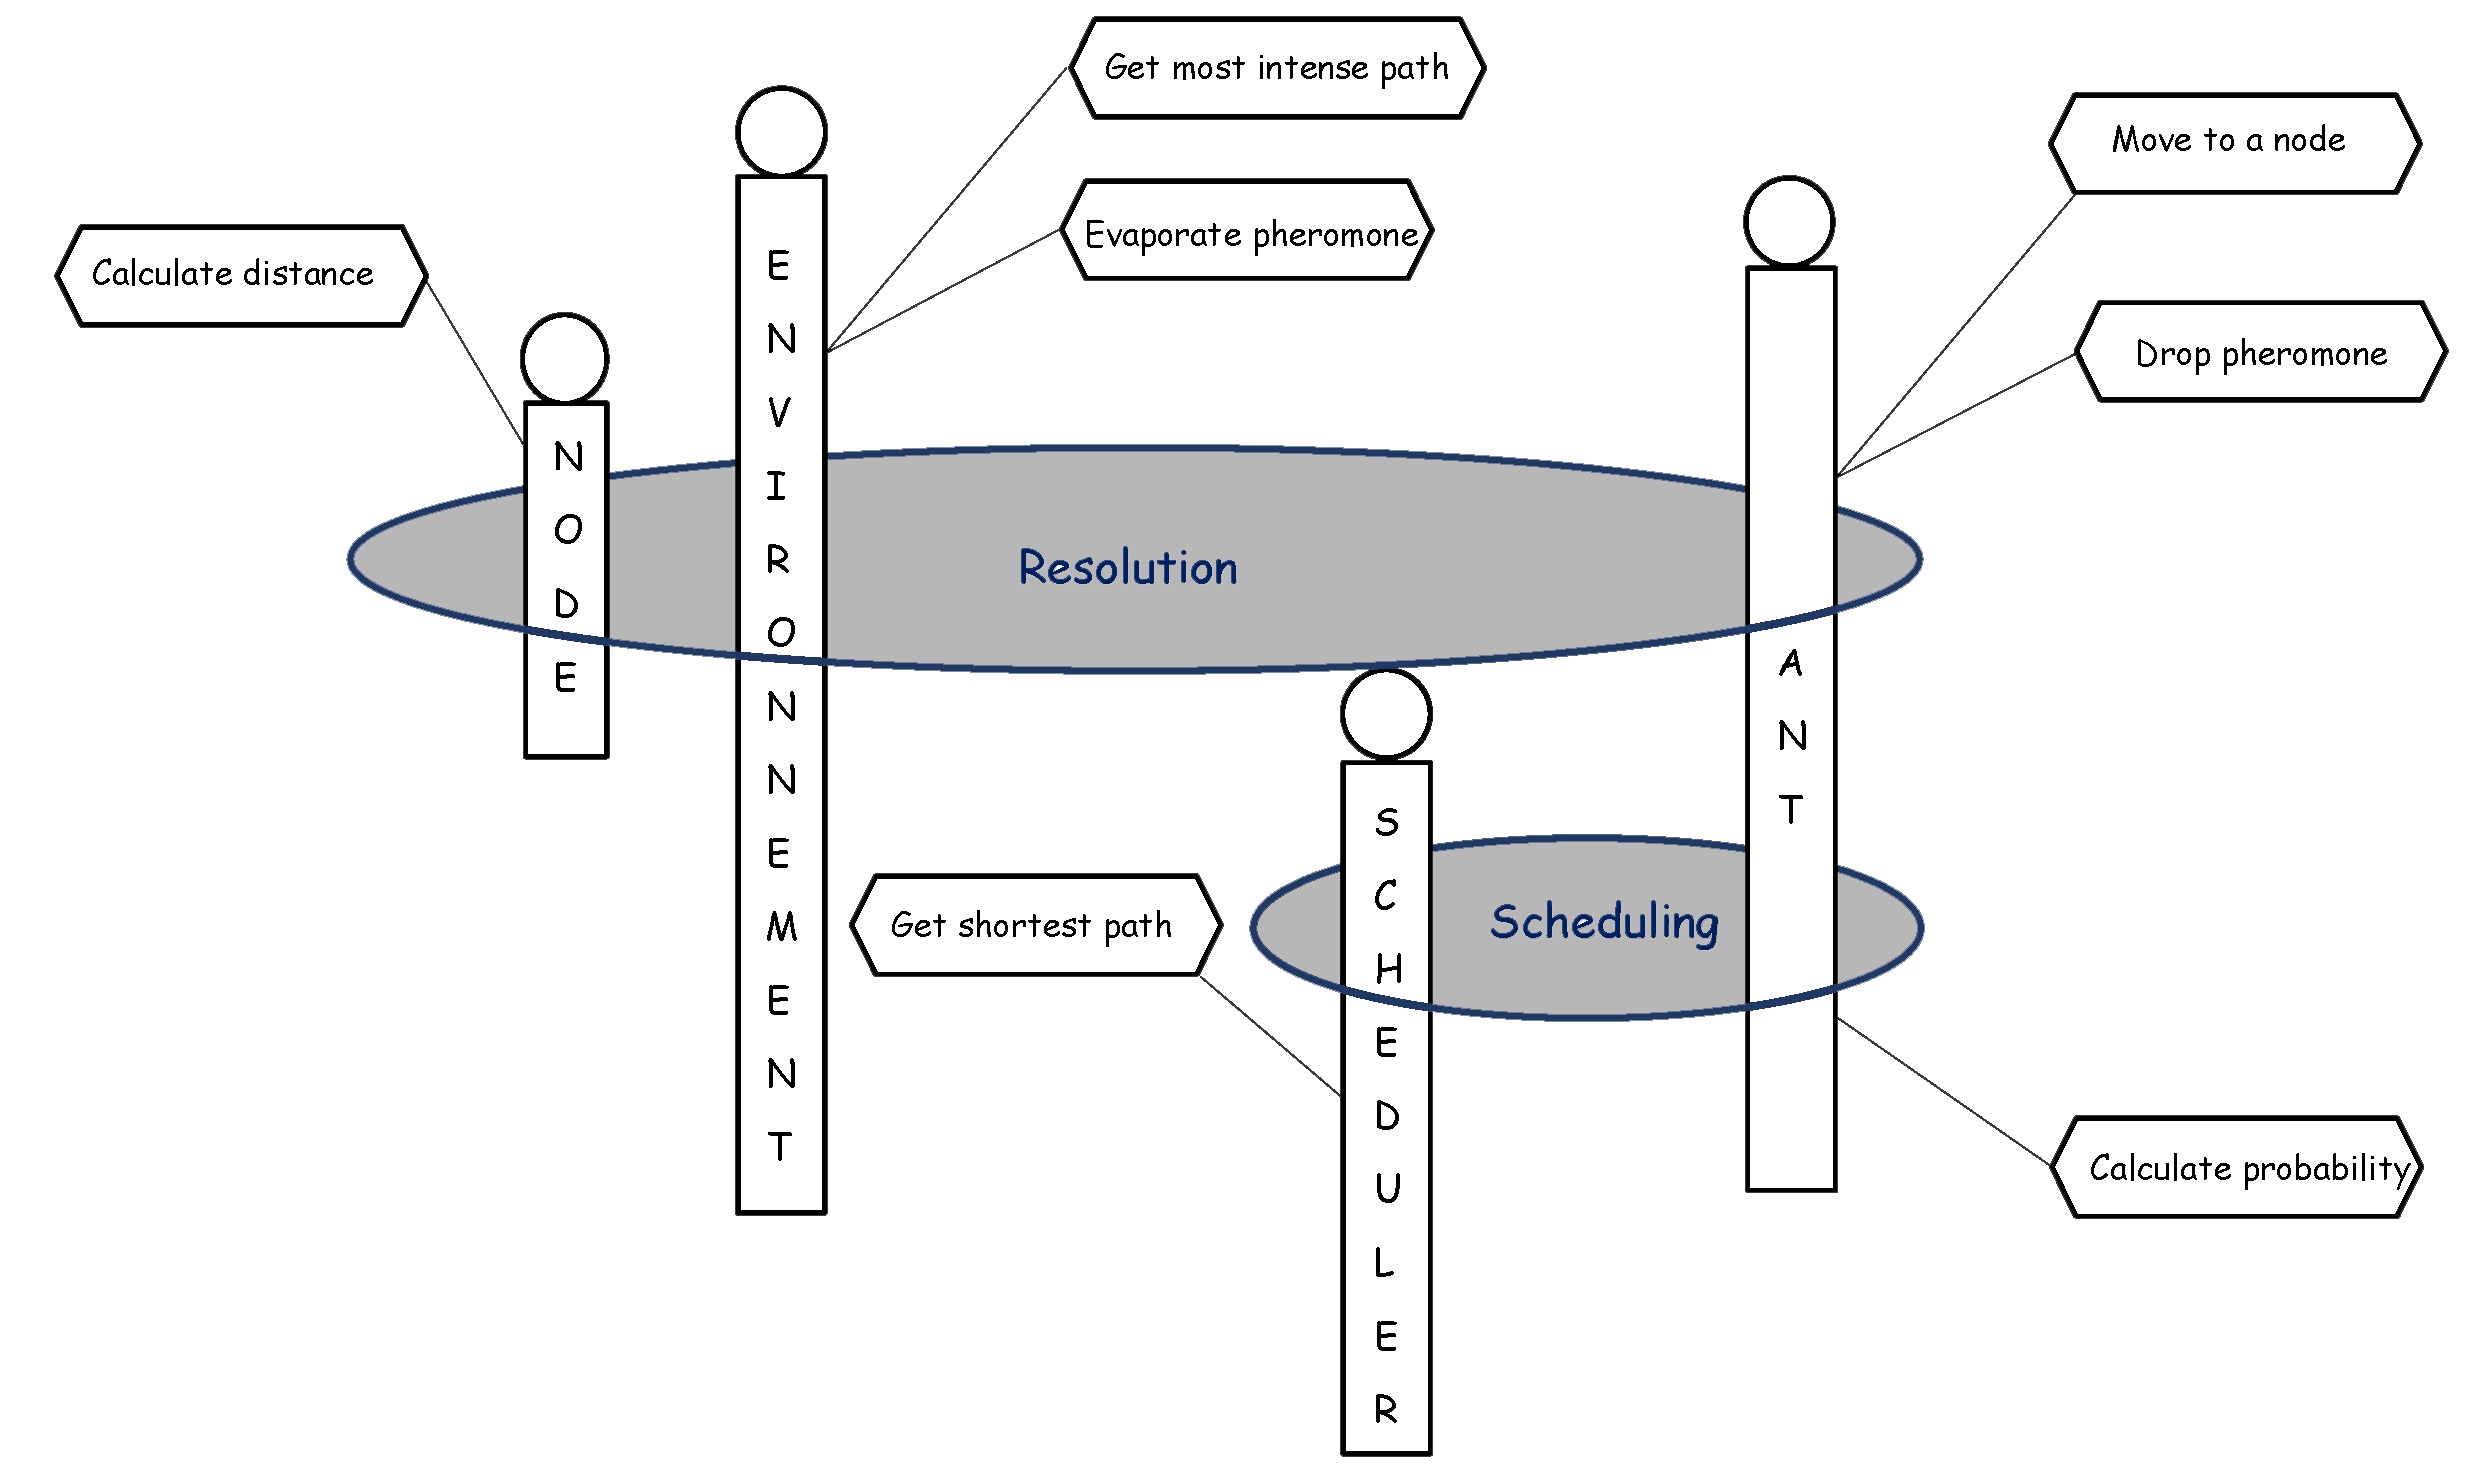
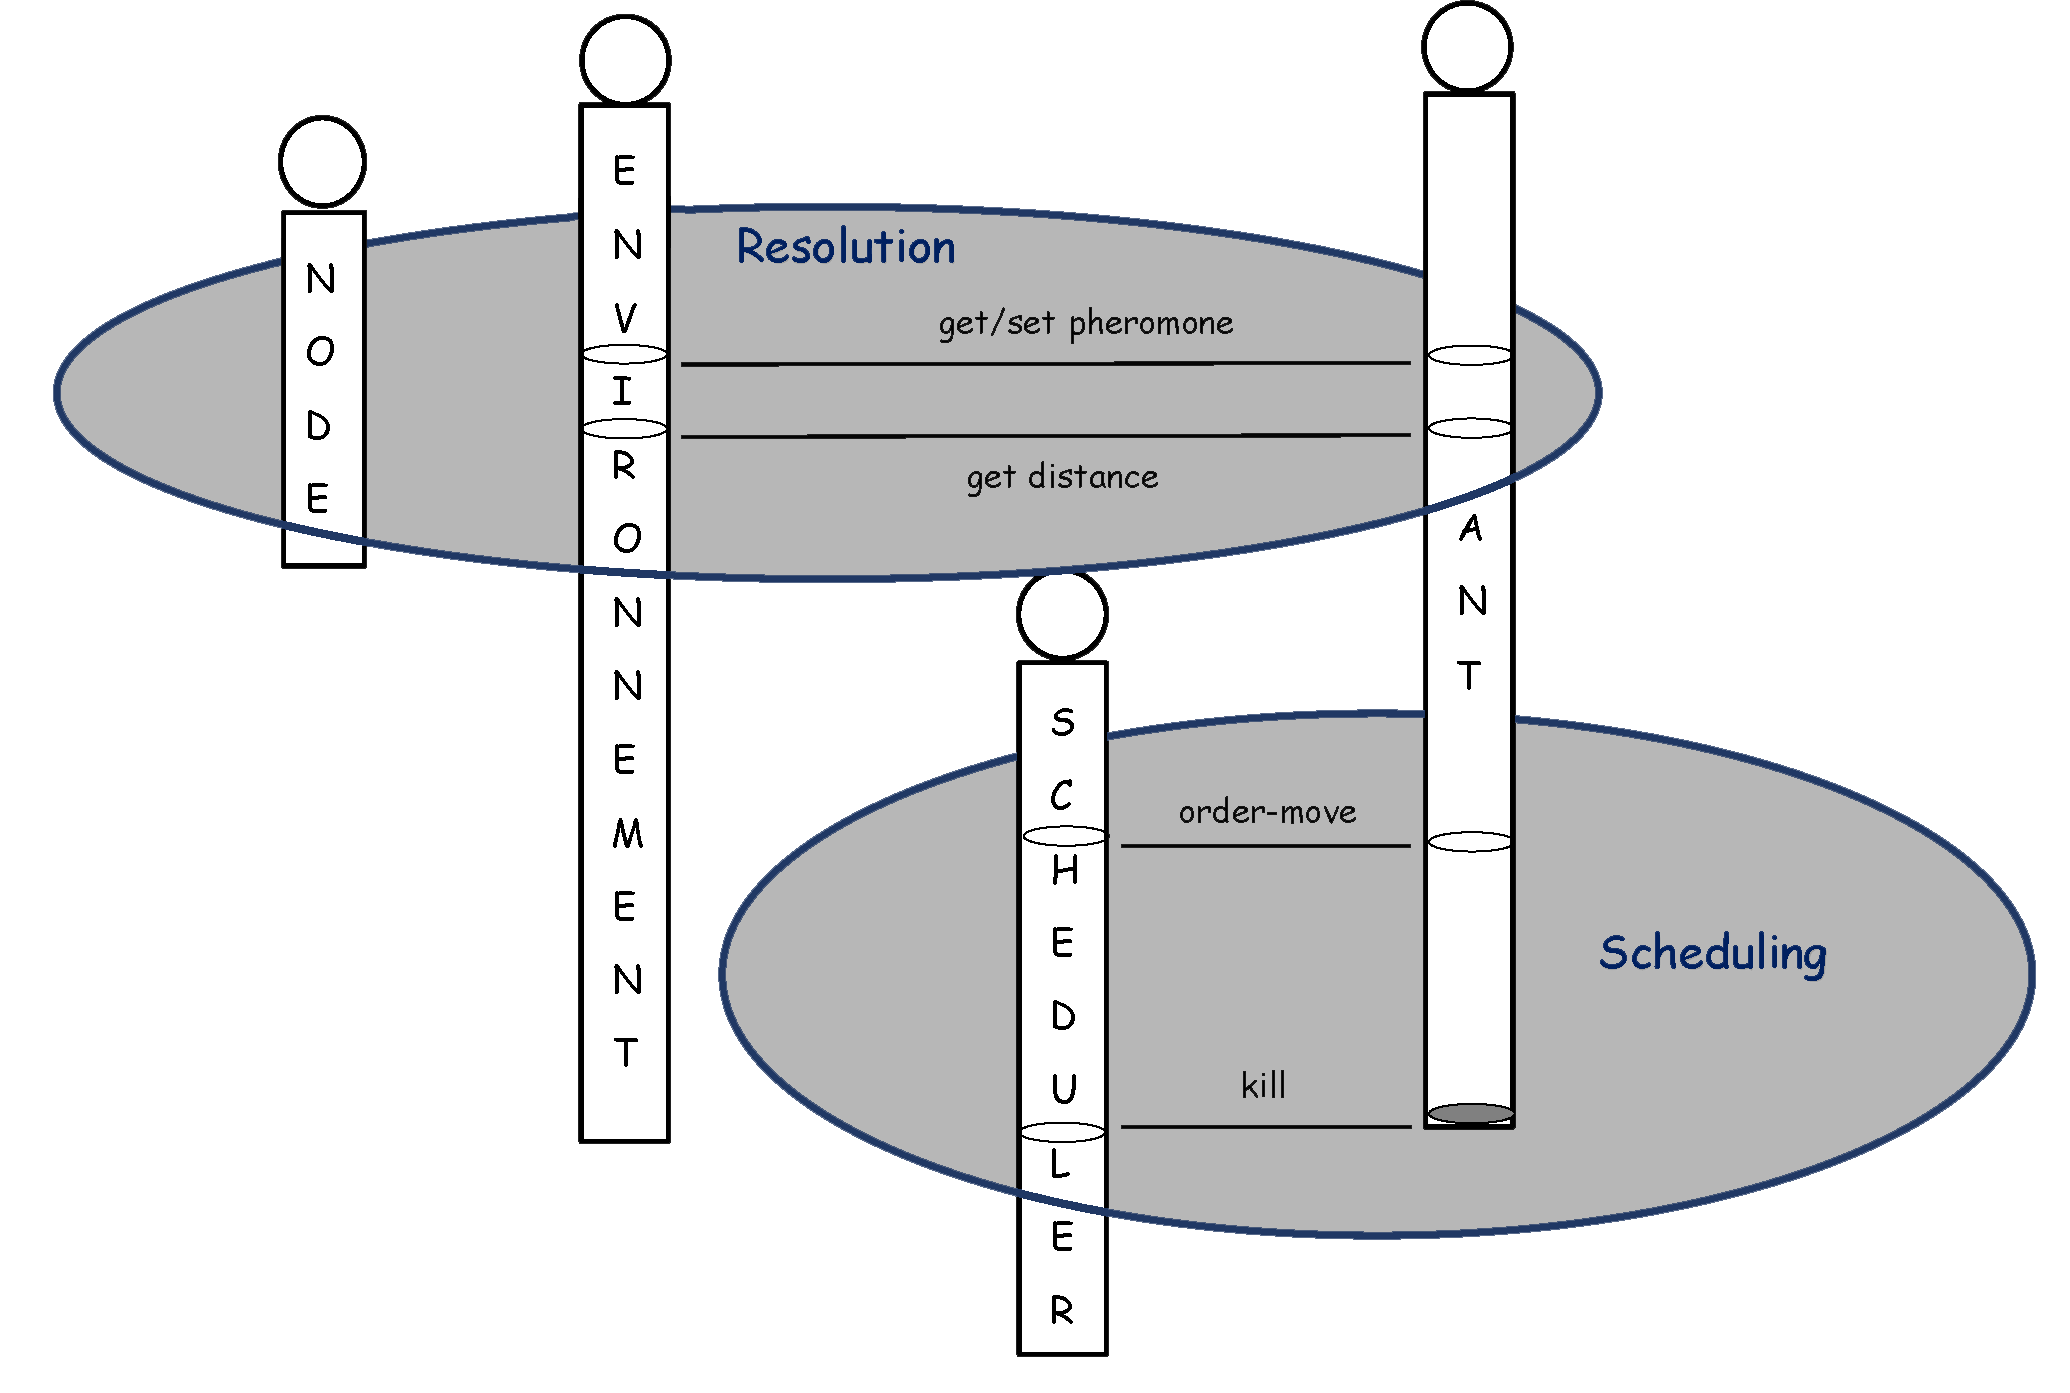
another commit

diff --git a/index.html b/index.html
@@ -142,6 +142,8 @@
 		<li class="fragment">Un groupe par une ellipse entourant des agents.</li>
 		<li class="fragment">Si un agent appartient à un groupe on peut définir son
 			rôle à l'aide d'un héxagone ou par une description textuelle.</li>
+		<li class="fragment">L'interactions entre deux agents dans un groupe est
+			représenté par un segment reliant les deux agents.</li>
 	</ul>
 </section>
 
@@ -173,9 +175,46 @@
 		<a href="img/ant-tsp-class-diagram.png" target="_blank"><img src="img/ant-tsp-class-diagram.png" height="300"></img></a>
 	</section>
 	<section>
+		<h5>Conception ACO Orienté Objet (UML)</h5>
+		<ul>
+			<li>La classe Node permet de stocker la situation géographique d'une ville
+				et de calculer la distance entre deux villes.</li>
+			<li>La classe Environnement permet de sauvegarder et de fournir des données
+				aux fourmies (phéromones et distances).</li>
+			<li>La classe Ant modèlise les fourmies (où sont elles allées et où vont
+				elles partir).</li>
+			<li>La classe TSP permet d'ordonnancer les fourmies, elle implémente
+				l'algorithme.</li>
+		</ul>
+	</section>
+	<section>
 		<h5>Conception ACO Agent (AGR)</h5>
 		<a href="img/agr-tsp.png" target="_blank"><img src="img/agr-tsp.png" height="300"></img></a>
 	</section>
+	<section>
+		<h5>Conception ACO Agent (AGR)</h5>
+		<ul>
+			<li>L'agent Node à pour rôle de donner une localisation (d'une ville).</li>
+			<li>L'agent Environnement sert de tableau noir pour les fourmies (dépot
+				de phéromones).</li>
+			<li>L'agent Ant représente une fourmie.</li>
+			<li>L'agent Scheduler permet d'ordonnancer les fourmies.</li>
+		</ul>
+	</section>
+</section>
+
+<section>
+  <h4>MadKit</h4>
+  <ul>
+    <li class="fragment">MaDKit signfie Multiagent Developpement Kit.</li>
+    <li class="fragment">Créée par la même équipe qu'AGR (LIRMM).</li>
+    <li class="fragment">Bibliothéque java qui permet de simuler des systèmes
+			multi-agents, modélisés en AGR.</li>
+  </ul>
+</section>
+
+<section>
+  <h3>Fin.</h3>
 </section>
 
 		</div></div>
@@ -186,18 +225,18 @@
 		<script src="js/p5.dom.min.js"></script>
 		<script src="js/sketch.js"></script>
 		<script>
-	Reveal.initialize({
-		hash: true,
-		math: {
-			mathjax: 'MathJax/MathJax.js',
-			config: 'TeX-AMS_CHTML'
-		},
-		dependencies: [
-			{ src: 'js/highlight.js', async: true },
-			{ src: 'js/math.js', async: true }
-		]
-	});
-	Reveal.configure({ slideNumber: 'c/t' });
+Reveal.initialize({
+	hash: true,
+	math: {
+		mathjax: 'MathJax/MathJax.js',
+		config: 'TeX-AMS_CHTML'
+	},
+	dependencies: [
+		{ src: 'js/highlight.js', async: true },
+		{ src: 'js/math.js', async: true }
+	]
+});
+Reveal.configure({ slideNumber: 'c/t' });
 		</script>
 	</body>
 </html>
